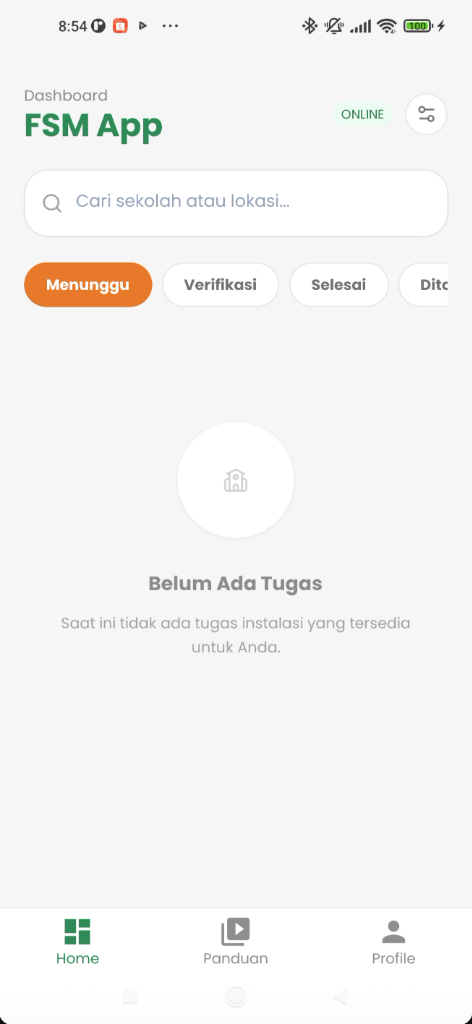
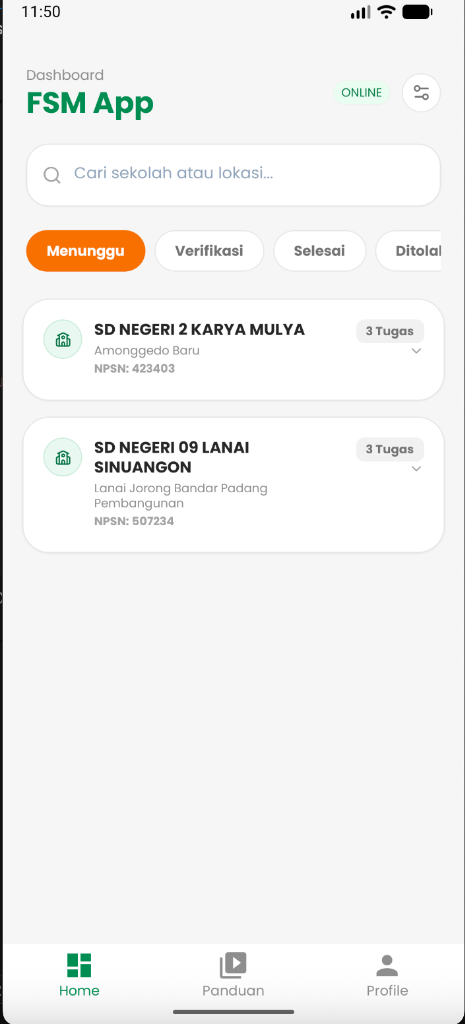
add project

diff --git a/components/Portfolio.tsx b/components/Portfolio.tsx
@@ -134,8 +134,15 @@ const projects = [
     title: 'FSM - Field Service Management',
     category: 'APP',
     tech: 'RN EXPO CUSTOM CLIENT',
-    desc: 'Mobile application for field installers to manage interactive TV distribution in schools, featuring status tracking and task management.',
+    desc: 'Offline-first mobile application for field installers to manage TV distribution in Indonesia\'s remotest areas, featuring automated background photo and data synchronization.',
     img: '/assets/img/fsm-installer-app.png'
+  },
+  {
+    title: 'FSM - Distribution & Installation Dashboard',
+    category: 'WEB',
+    tech: 'LARAVEL FILAMENT',
+    desc: 'Comprehensive web-based Field Service Management platform for monitoring and managing the nationwide distribution and installation of interactive TVs in schools.',
+    img: '/assets/img/fsm-dashboard.png'
   }
 ];
 

diff --git a/components/CVTemplate.tsx b/components/CVTemplate.tsx
@@ -74,7 +74,7 @@ const CVTemplate: React.FC<CVTemplateProps> = ({ isForcedVisible }) => {
             <li>Developing and maintaining mobile projects including HRIS, Wakita apps, CRM, and FedEx Monitoring.</li>
             <li>Engineered advanced automation workflows with n8n & AI Agents for WhatsApp verification and Intelligent OCR.</li>
             <li>Built AWB OCR Management Dashboard (Filament) and Transys Master Data system (ERPNext).</li>
-            <li>Developed FSM (Field Service Management) app using React Native Expo Custom Client.</li>
+            <li>Developed comprehensive FSM (Field Service Management) system with offline-first React Native app for remote school installations, featuring automated background data and photo synchronization.</li>
           </ul>
         </div>
 

diff --git a/components/ExperienceSkills.tsx b/components/ExperienceSkills.tsx
@@ -7,7 +7,7 @@ const experiences = [
     role: 'Mobile Developer',
     company: 'ATT Group, Jakarta Barat',
     period: 'Dec 2022 — Present',
-    desc: 'Developing and maintaining mobile projects including HRIS, Wakita apps, CRM, and FedEx Monitoring Service. Engineered advanced automation workflows with n8n & AI Agents for WhatsApp verification and Intelligent OCR. Built the AWB OCR Management Dashboard (Filament) and Transys Master Data system (ERPNext). Developed the FSM (Field Service Management) app using React Native Expo Custom Client for school TV distribution programs.',
+    desc: 'Developing and maintaining mobile projects including HRIS, Wakita apps, CRM, and FedEx Monitoring Service. Engineered advanced automation workflows with n8n & AI Agents for WhatsApp verification and Intelligent OCR. Built the AWB OCR Management Dashboard (Filament) and Transys Master Data system (ERPNext). Developed the comprehensive FSM (Field Service Management) system, featuring an offline-first React Native installer app for remote school installations with automated background photo synchronization and a Filament-based distribution dashboard.',
     tech: ['React Native', 'Laravel', 'n8n', 'Filament', 'ERPNext']
   },
   {